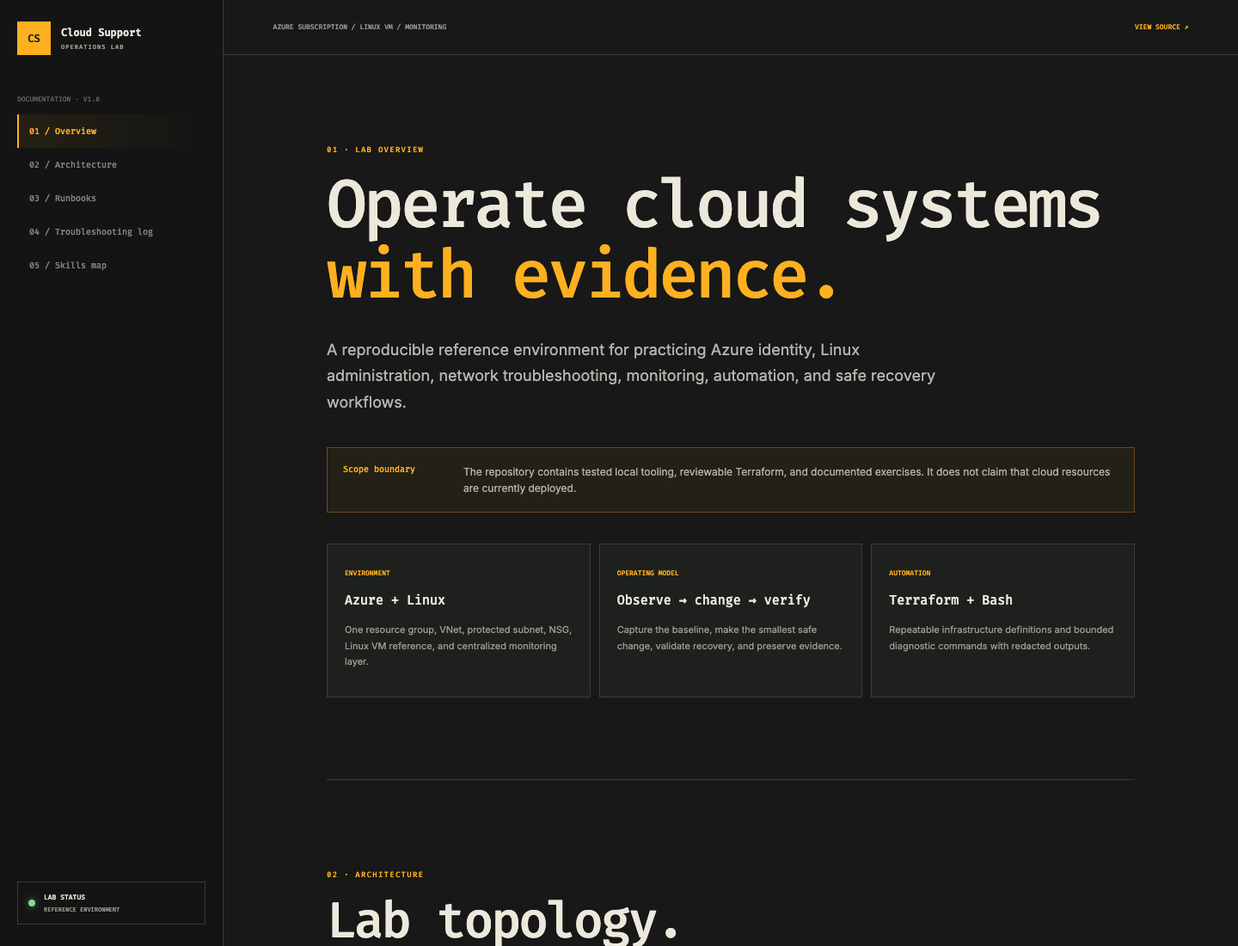
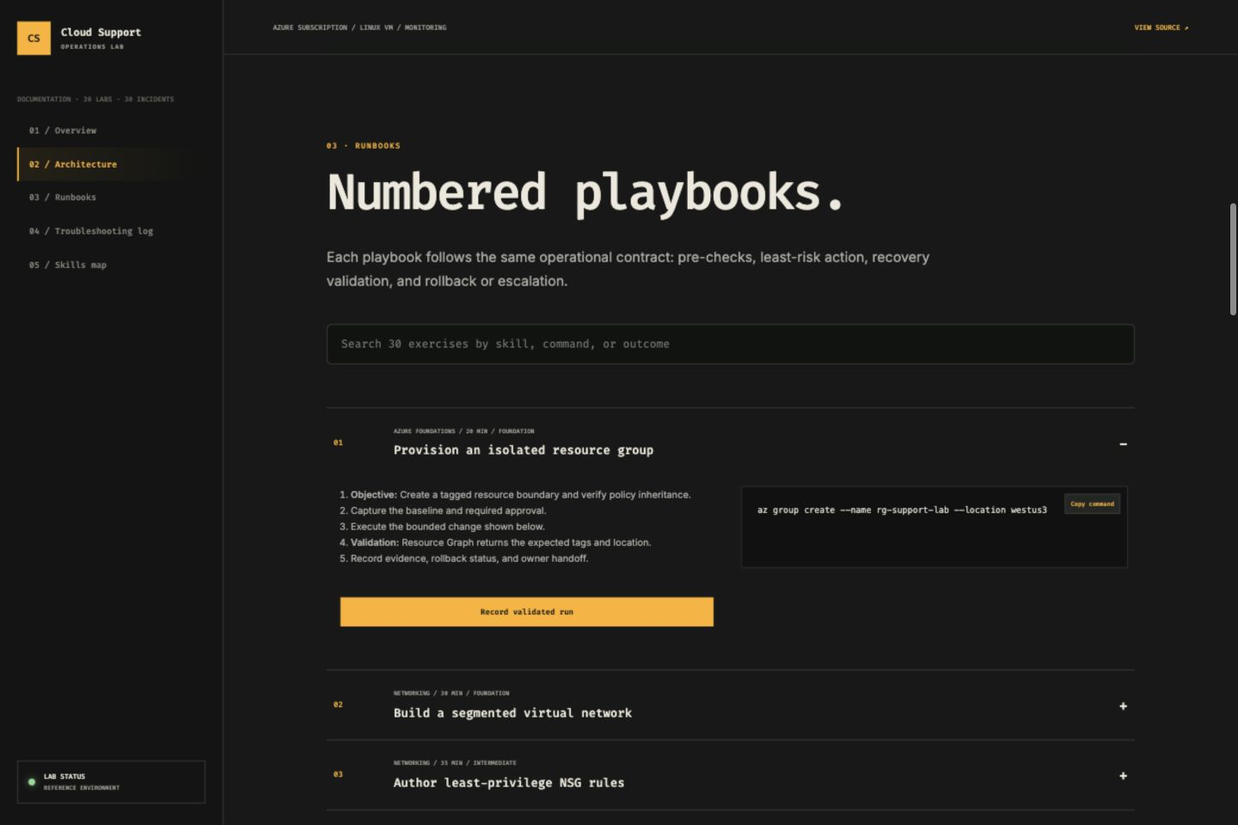
Build 30-lab operations evidence service

diff --git a/dashboard/index.html b/dashboard/index.html
@@ -1,6 +1,6 @@
 <!doctype html><html lang="en"><head><meta charset="utf-8"><meta name="viewport" content="width=device-width,initial-scale=1"><meta name="theme-color" content="#171817"><meta name="description" content="Azure and Linux cloud support operations lab documentation."><title>Cloud Support Operations Lab</title><link rel="stylesheet" href="styles.css"></head>
 <body><aside class="sidebar"><a class="brand" href="#overview"><span>CS</span><div>Cloud Support<small>OPERATIONS LAB</small></div></a><div class="version">DOCUMENTATION · V1.0</div><nav><a class="active" href="#overview">01 / Overview</a><a href="#architecture">02 / Architecture</a><a href="#runbooks">03 / Runbooks</a><a href="#troubleshooting">04 / Troubleshooting log</a><a href="#skills">05 / Skills map</a></nav><div class="lab-state"><i></i><div>LAB STATUS<small>REFERENCE ENVIRONMENT</small></div></div></aside>
-<main><header><button id="menu" aria-label="Toggle navigation">☰</button><p>AZURE SUBSCRIPTION / LINUX VM / MONITORING</p><a href="https://github.com/paulrevanthpersonal-lab/cloud-support-operations-lab">VIEW SOURCE ↗</a></header>
+<main><header><button id="menu" aria-label="Toggle navigation">☰</button><p>AZURE SUBSCRIPTION / LINUX VM / MONITORING</p><a href="https://github.com/paulrevanthpersonal-lab/cloud-ops-lab">VIEW SOURCE ↗</a></header>
 <article class="docs"><section id="overview"><p class="kicker">01 · LAB OVERVIEW</p><h1>Operate cloud systems<br><em>with evidence.</em></h1><p class="lead">A reproducible reference environment for practicing Azure identity, Linux administration, network troubleshooting, monitoring, automation, and safe recovery workflows.</p><div class="callout"><b>Scope boundary</b><p>The repository contains tested local tooling, reviewable Terraform, and documented exercises. It does not claim that cloud resources are currently deployed.</p></div><div class="overview-grid"><article><span>ENVIRONMENT</span><h3>Azure + Linux</h3><p>One resource group, VNet, protected subnet, NSG, Linux VM reference, and centralized monitoring layer.</p></article><article><span>OPERATING MODEL</span><h3>Observe → change → verify</h3><p>Capture the baseline, make the smallest safe change, validate recovery, and preserve evidence.</p></article><article><span>AUTOMATION</span><h3>Terraform + Bash</h3><p>Repeatable infrastructure definitions and bounded diagnostic commands with redacted outputs.</p></article></div></section>
 <section id="architecture"><p class="kicker">02 · ARCHITECTURE</p><h2>Lab topology.</h2><p>The resource boundary is explicit: internet traffic reaches only the NSG-approved path, administration uses controlled identity, and logs flow to a monitoring workspace.</p><div class="diagram"><div class="cloud"><span>AZURE RESOURCE GROUP</span><div class="diagram-row"><article class="identity"><small>IDENTITY PLANE</small><strong>Entra ID</strong><p>RBAC · MFA · service principal</p></article><b>→</b><article><small>NETWORK PLANE</small><strong>VNet / Subnet</strong><p>10.42.0.0/16 · NSG rules</p></article><b>→</b><article class="vm"><small>COMPUTE PLANE</small><strong>Linux VM</strong><p>SSH · patching · systemd</p></article></div><div class="telemetry"><span>↓ DIAGNOSTIC SETTINGS</span><article><small>OBSERVABILITY</small><strong>Log Analytics + Azure Monitor</strong><p>Metrics · queries · alerts · evidence</p></article></div></div></div><div class="legend"><span><i class="amber"></i>Control path</span><span><i></i>Telemetry path</span><span><i class="green"></i>Validated boundary</span></div></section>
 <section id="runbooks"><p class="kicker">03 · RUNBOOKS</p><h2>Numbered playbooks.</h2><p>Each playbook follows the same operational contract: pre-checks, least-risk action, recovery validation, and rollback or escalation.</p><div class="runbook-list"><details open><summary><span>RB-01</span><div><small>IDENTITY / 12 MIN</small><strong>Rotate a service principal credential</strong></div><b>+</b></summary><div class="runbook-body"><ol><li>Confirm the application owner, use, and approved change window.</li><li>Create the replacement credential without deleting the active one.</li><li>Update the consuming secret store and restart only the dependent workload.</li><li>Verify authentication telemetry before revoking the old credential.</li></ol><pre><code>az ad app credential reset \
@@ -15,4 +15,4 @@ SigninLogs
 apt list --upgradable
 sudo unattended-upgrade --dry-run --debug</code><button data-copy>Copy command</button></pre></div></details></div></section>
 <section id="troubleshooting"><p class="kicker">04 · TROUBLESHOOTING LOG</p><h2>Symptoms become evidence.</h2><div class="issue-table"><div class="thead"><span>ISSUE</span><span>ROOT CAUSE</span><span>FIX + VERIFICATION</span><span>STATUS</span></div><div><strong>SSH timeout after NSG update</strong><span>Rule priority shadowed the intended allow rule.</span><span>Corrected priority; verified fresh connection and Network Watcher flow.</span><b>RESOLVED</b></div><div><strong>Application could not resolve API</strong><span>Private DNS zone was not linked to the workload VNet.</span><span>Linked VNet; compared resolver answers and confirmed application health.</span><b>RESOLVED</b></div><div><strong>Service principal received 403</strong><span>Role assigned at the wrong resource scope.</span><span>Re-scoped least-privilege role; verified successful request and audit event.</span><b>RESOLVED</b></div><div><strong>Alert produced no notification</strong><span>Action group receiver was disabled.</span><span>Enabled receiver; ran approved test alert and confirmed delivery.</span><b>RESOLVED</b></div></div></section>
-<section id="skills"><p class="kicker">05 · SKILLS MAP</p><h2>Exercise to competency.</h2><div class="skills"><article><span>IAM</span><h3>Identity and access</h3><p>Service principals, credential rotation, MFA, Conditional Access, RBAC scope.</p><b>RB-01 · RB-03</b></article><article><span>NET</span><h3>Networking</h3><p>VNets, subnets, NSGs, DNS, TCP checks, routes, private service paths.</p><b>ARCH · DIAGNOSTICS</b></article><article><span>SYS</span><h3>Linux operations</h3><p>SSH hardening, systemd, patching, logs, recovery validation.</p><b>RB-02 · RB-04</b></article><article><span>OBS</span><h3>Monitoring</h3><p>Diagnostic settings, Log Analytics, Azure Monitor, alerts, evidence capture.</p><b>TROUBLESHOOTING LOG</b></article><article><span>AUT</span><h3>Automation</h3><p>Terraform definitions, Bash diagnostics, GitHub Actions checks, repeatability.</p><b>INFRA/ · SCRIPTS/</b></article></div></section></article><footer><span>Cloud Support Operations Lab</span><span>Designed for safe, repeatable troubleshooting.</span></footer></main><script src="app.js"></script></body></html>
+<section id="skills"><p class="kicker">05 · SKILLS MAP</p><h2>Exercise to competency.</h2><div class="skills"><article><span>IAM</span><h3>Identity and access</h3><p>Service principals, credential rotation, MFA, Conditional Access, RBAC scope.</p><b>RB-01 · RB-03</b></article><article><span>NET</span><h3>Networking</h3><p>VNets, subnets, NSGs, DNS, TCP checks, routes, private service paths.</p><b>ARCH · DIAGNOSTICS</b></article><article><span>SYS</span><h3>Linux operations</h3><p>SSH hardening, systemd, patching, logs, recovery validation.</p><b>RB-02 · RB-04</b></article><article><span>OBS</span><h3>Monitoring</h3><p>Diagnostic settings, Log Analytics, Azure Monitor, alerts, evidence capture.</p><b>TROUBLESHOOTING LOG</b></article><article><span>AUT</span><h3>Automation</h3><p>Terraform definitions, Bash diagnostics, GitHub Actions checks, repeatability.</p><b>INFRA/ · SCRIPTS/</b></article></div></section></article><footer><span>Cloud Support Operations Lab</span><span>Designed for safe, repeatable troubleshooting.</span></footer></main><script type="module" src="app.js"></script></body></html>

diff --git a/dashboard/styles.css b/dashboard/styles.css
@@ -3,3 +3,4 @@ body{overflow-x:hidden}p,h1,h2,h3{overflow-wrap:anywhere}
 :root{--bg:#171817;--panel:#1e201e;--panel2:#242624;--ink:#ece8dc;--muted:#999b91;--line:#3b3d39;--amber:#ffb020;--green:#86d993}*{box-sizing:border-box}html{scroll-behavior:smooth}body{margin:0;background:var(--bg);color:var(--ink);font-family:Inter,sans-serif}.sidebar{position:fixed;inset:0 auto 0 0;width:260px;background:#131413;border-right:1px solid var(--line);padding:25px 20px;display:flex;flex-direction:column;z-index:20}.brand{display:flex;align-items:center;gap:12px;color:inherit;text-decoration:none;font:600 12px "Fira Code"}.brand>span{display:grid;place-items:center;width:39px;height:39px;background:var(--amber);color:#1b1b19}.brand small{display:block;color:var(--muted);font-size:7px;letter-spacing:.15em;margin-top:4px}.version{margin-top:46px;color:#62655f;font:500 8px "Fira Code"}.sidebar nav{display:flex;flex-direction:column;margin-top:12px}.sidebar nav a{color:#80837c;text-decoration:none;font:500 10px "Fira Code";padding:13px 12px;border-left:2px solid transparent}.sidebar nav a.active{color:var(--amber);border-color:var(--amber);background:linear-gradient(90deg,rgba(255,176,32,.08),transparent)}.lab-state{margin-top:auto;display:flex;gap:10px;align-items:center;border:1px solid var(--line);padding:12px;font:500 8px "Fira Code"}.lab-state i{width:8px;height:8px;border-radius:50%;background:var(--green);box-shadow:0 0 9px rgba(134,217,147,.65)}.lab-state small{display:block;color:var(--muted);font-size:7px;margin-top:4px}main{margin-left:260px}main>header{height:64px;position:sticky;top:0;z-index:10;background:rgba(23,24,23,.9);backdrop-filter:blur(12px);border-bottom:1px solid var(--line);display:flex;align-items:center;justify-content:space-between;padding:0 4vw;font:500 8px "Fira Code";color:var(--muted)}main>header a{color:var(--amber);text-decoration:none}#menu{display:none}.docs{width:min(940px,88%);margin:auto}.docs section{padding:95px 0;border-bottom:1px solid var(--line);scroll-margin-top:60px}.kicker{font:500 9px "Fira Code";letter-spacing:.14em;color:var(--amber)}h1,h2{font:500 clamp(45px,6vw,78px)/1.05 "Fira Code";letter-spacing:-.05em;margin:18px 0 30px}h1 em{font-style:normal;color:var(--amber)}h2{font-size:clamp(37px,5vw,58px)}.lead{font-size:18px;line-height:1.7;color:#b4b5ad;max-width:740px}.callout{display:grid;grid-template-columns:140px 1fr;border:1px solid #684d1b;background:rgba(255,176,32,.05);padding:18px;margin:36px 0}.callout b{font:500 10px "Fira Code";color:var(--amber)}.callout p{margin:0;font-size:12px;line-height:1.6;color:#b1b2aa}.overview-grid{display:grid;grid-template-columns:repeat(3,1fr);gap:10px}.overview-grid article,.skills article{border:1px solid var(--line);background:var(--panel);padding:20px}.overview-grid span,.skills span{font:500 8px "Fira Code";color:var(--amber)}.overview-grid h3,.skills h3{font:500 15px "Fira Code"}.overview-grid p,.skills p{font-size:11px;line-height:1.7;color:var(--muted)}section>p:not(.kicker):not(.lead){color:#aaaDA5;line-height:1.75;max-width:720px}.diagram{border:1px solid var(--line);background:var(--panel);padding:24px;margin-top:30px}.cloud{border:1px dashed #62645d;padding:16px}.cloud>span{font:500 8px "Fira Code";color:var(--amber)}.diagram-row{display:grid;grid-template-columns:1fr auto 1fr auto 1fr;align-items:center;gap:12px;margin:25px 0}.diagram-row article,.telemetry article{border:1px solid var(--line);background:#151615;padding:18px}.diagram article small,.diagram article strong,.diagram article p{display:block}.diagram article small{font:500 7px "Fira Code";color:var(--muted)}.diagram article strong{font:500 13px "Fira Code";margin:12px 0}.diagram article p{font-size:9px;color:#888b84}.diagram-row>b{color:var(--amber)}.telemetry{text-align:center}.telemetry>span{font:500 8px "Fira Code";color:#667a6a}.telemetry article{width:50%;margin:12px auto 0}.legend{display:flex;gap:24px;margin-top:15px;font:500 8px "Fira Code";color:var(--muted)}.legend i{display:inline-block;width:8px;height:8px;border-radius:50%;background:#65756a;margin-right:6px}.legend .amber{background:var(--amber)}.legend .green{background:var(--green)}.runbook-list{margin-top:30px;border-top:1px solid var(--line)}details{border-bottom:1px solid var(--line)}summary{list-style:none;display:grid;grid-template-columns:70px 1fr auto;align-items:center;padding:22px 8px;cursor:pointer}summary::-webkit-details-marker{display:none}summary>span{font:500 9px "Fira Code";color:var(--amber)}summary small{display:block;font:500 7px "Fira Code";color:var(--muted);margin-bottom:7px}summary strong{font:500 14px "Fira Code"}.runbook-body{display:grid;grid-template-columns:1fr 1fr;gap:24px;padding:0 8px 28px}.runbook-body ol{padding-left:20px;font-size:11px;line-height:1.7;color:#afb1aa}.runbook-body pre{position:relative;background:#101110;border:1px solid #30322f;padding:18px;overflow:auto;color:#d9dbcF;font:400 10px/1.7 "Fira Code"}.runbook-body pre button{position:absolute;top:8px;right:8px;border:1px solid var(--line);background:var(--panel2);color:var(--amber);font:500 7px "Fira Code";padding:6px}.issue-table{border:1px solid var(--line);margin-top:30px}.issue-table>div{display:grid;grid-template-columns:1fr 1.2fr 1.5fr 80px;gap:18px;padding:16px;border-bottom:1px solid var(--line);font-size:10px;line-height:1.6}.issue-table>div:last-child{border:0}.issue-table .thead{font:500 7px "Fira Code";color:var(--muted);background:#111211}.issue-table b{color:var(--green);font:500 8px "Fira Code"}.issue-table span{color:#9da098}.skills{display:grid;grid-template-columns:repeat(5,1fr);gap:9px;margin-top:30px}.skills article{min-height:230px}.skills h3{margin-top:50px}.skills b{font:500 7px "Fira Code";color:var(--green)}footer{width:min(940px,88%);margin:auto;height:110px;display:flex;justify-content:space-between;align-items:center;color:#73766f;font:500 8px "Fira Code"}
 @media(max-width:900px){.overview-grid{grid-template-columns:1fr}.skills{grid-template-columns:1fr 1fr}.issue-table>div{grid-template-columns:1fr 80px}.issue-table span{display:none}}@media(max-width:650px){.sidebar{transform:translateX(-102%);transition:.25s}.sidebar.open{transform:none}main{margin:0}#menu{display:block;background:transparent;border:0;color:var(--amber);font-size:18px}main>header{padding:0 18px}main>header p{display:none}.docs{width:90%}.docs section{padding:70px 0}.callout{grid-template-columns:1fr}.callout p{margin-top:9px}.diagram-row{grid-template-columns:1fr}.diagram-row>b{transform:rotate(90deg);text-align:center}.telemetry article{width:100%}.runbook-body{grid-template-columns:1fr}.skills{grid-template-columns:1fr}.legend{flex-direction:column;gap:7px}}
 @media(prefers-reduced-motion:reduce){html{scroll-behavior:auto}.sidebar{transition:none}}
+.lab-search{width:100%;background:#111310;border:1px solid var(--line);color:var(--ink);padding:14px 16px;margin:20px 0;border-radius:6px;font:13px "Fira Code",monospace}.record-run{margin:0 8px 22px;background:var(--amber);color:#151712;border:0;padding:11px 14px;font:600 9px "Fira Code"}.issue-table{max-height:920px;overflow:auto}.issue-table>div>strong small{display:block;color:var(--amber);font:9px "Fira Code",monospace;margin-bottom:5px}

diff --git a/dashboard/app.js b/dashboard/app.js
@@ -1,5 +1,11 @@
-const links=[...document.querySelectorAll("nav a")];const sections=[...document.querySelectorAll("main section")];
-const observer=new IntersectionObserver(entries=>{entries.filter(entry=>entry.isIntersecting).forEach(entry=>{links.forEach(link=>link.classList.toggle("active",link.hash===`#${entry.target.id}`));});},{rootMargin:"-20% 0px -65%"});sections.forEach(section=>observer.observe(section));
-document.querySelectorAll("details").forEach(detail=>detail.addEventListener("toggle",()=>{detail.querySelector("summary>b").textContent=detail.open?"−":"+";}));
-document.querySelectorAll("[data-copy]").forEach(button=>button.addEventListener("click",async()=>{await navigator.clipboard?.writeText(button.previousElementSibling.textContent);button.textContent="Copied";setTimeout(()=>button.textContent=button.textContent.includes("query")?"Copy query":"Copy command",1000);}));
+const links=[...document.querySelectorAll("nav a")],sections=[...document.querySelectorAll("main section")];let catalog={exercises:[],incidents:[]},apiAvailable=true;
+const observer=new IntersectionObserver(entries=>{entries.filter(entry=>entry.isIntersecting).forEach(entry=>links.forEach(link=>link.classList.toggle("active",link.hash===`#${entry.target.id}`)));},{rootMargin:"-20% 0px -65%"});sections.forEach(section=>observer.observe(section));
+const esc=value=>String(value).replace(/[&<>'"]/g,c=>({"&":"&amp;","<":"&lt;",">":"&gt;","'":"&#39;",'"':"&quot;"}[c]));
+async function api(path,options={}){const response=await fetch(path,{headers:{"content-type":"application/json"},...options});if(!response.ok)throw new Error("Operations service unavailable");return response.json();}
+async function load(){try{const [exercises,incidents]=await Promise.all([api("/api/labs"),api("/api/incidents")]);catalog={exercises,incidents};}catch{apiAvailable=false;catalog=await fetch("../data/labs.json").then(response=>response.json());}}
+function renderLabs(query=""){const q=query.toLowerCase(),items=catalog.exercises.filter(item=>JSON.stringify(item).toLowerCase().includes(q));document.querySelector(".runbook-list").innerHTML=items.map((item,index)=>`<details ${index===0?"open":""}><summary><span>${item.id.replace("LAB-","")}</span><div><small>${esc(item.track.toUpperCase())} / ${item.duration} MIN / ${esc(item.difficulty.toUpperCase())}</small><strong>${esc(item.title)}</strong></div><b>+</b></summary><div class="runbook-body"><ol><li><b>Objective:</b> ${esc(item.objective)}</li><li>Capture the baseline and required approval.</li><li>Execute the bounded change shown below.</li><li><b>Validation:</b> ${esc(item.validation)}</li><li>Record evidence, rollback status, and owner handoff.</li></ol><pre><code>${esc(item.command)}</code><button data-copy>Copy command</button></pre><button class="record-run" data-run="${esc(item.id)}">Record validated run</button></div></details>`).join("");bindDetails();}
+function renderIncidents(){const table=document.querySelector(".issue-table");table.innerHTML=`<div class="thead"><span>ISSUE</span><span>ROOT CAUSE</span><span>FIX + VERIFICATION</span><span>STATUS</span></div>${catalog.incidents.map(item=>`<div><strong><small>${item.id}</small>${esc(item.symptom)}</strong><span>${esc(item.rootCause)}</span><span>${esc(item.fix)}</span><b>RESOLVED</b></div>`).join("")}`;}
+function bindDetails(){document.querySelectorAll("details").forEach(detail=>detail.addEventListener("toggle",()=>{detail.querySelector("summary>b").textContent=detail.open?"−":"+";}));document.querySelectorAll("[data-copy]").forEach(button=>button.addEventListener("click",async()=>{await navigator.clipboard?.writeText(button.previousElementSibling.textContent);button.textContent="Copied";setTimeout(()=>button.textContent="Copy command",1000);}));document.querySelectorAll("[data-run]").forEach(button=>button.addEventListener("click",async()=>{const payload={labId:button.dataset.run,operator:"Paul Revanth",status:"Validated",evidence:"Procedure completed; stated validation result recorded"};if(apiAvailable){try{const run=await api("/api/runs",{method:"POST",body:JSON.stringify(payload)});button.textContent=`Run #${run.id} recorded ✓`;}catch{button.textContent="Could not record";}}else{const runs=JSON.parse(localStorage.getItem("cloud-lab-runs")||"[]");runs.push({...payload,at:new Date().toISOString()});localStorage.setItem("cloud-lab-runs",JSON.stringify(runs));button.textContent="Local run recorded ✓";}}));}
 document.querySelector("#menu").addEventListener("click",()=>document.querySelector(".sidebar").classList.toggle("open"));links.forEach(link=>link.addEventListener("click",()=>document.querySelector(".sidebar").classList.remove("open")));
+const search=document.createElement("input");search.className="lab-search";search.type="search";search.placeholder="Search 30 exercises by skill, command, or outcome";document.querySelector("#runbooks>p:nth-of-type(2)").after(search);search.addEventListener("input",event=>renderLabs(event.target.value));
+await load();renderLabs();renderIncidents();document.querySelector(".version").textContent=`DOCUMENTATION · ${catalog.exercises.length} LABS · ${catalog.incidents.length} INCIDENTS`;

diff --git a/server.py b/server.py
@@ -1,0 +1,72 @@
+from __future__ import annotations
+
+import json
+import os
+import sqlite3
+from datetime import UTC, datetime
+from http.server import SimpleHTTPRequestHandler, ThreadingHTTPServer
+from pathlib import Path
+from urllib.parse import parse_qs, urlparse
+
+ROOT = Path(__file__).resolve().parent
+CATALOG = json.loads((ROOT / "data" / "labs.json").read_text())
+DB_PATH = Path(os.getenv("CLOUD_LAB_DB", ROOT / "data" / "lab_runs.db"))
+
+def initialize() -> None:
+    DB_PATH.parent.mkdir(parents=True, exist_ok=True)
+    with sqlite3.connect(DB_PATH) as conn:
+        conn.execute("""CREATE TABLE IF NOT EXISTS runs (
+            id INTEGER PRIMARY KEY AUTOINCREMENT, lab_id TEXT NOT NULL, operator TEXT NOT NULL,
+            status TEXT NOT NULL, evidence TEXT NOT NULL, started_at TEXT NOT NULL, completed_at TEXT
+        )""")
+
+def list_labs(query: str = "", track: str = "") -> list[dict]:
+    result = CATALOG["exercises"]
+    if query:
+        q = query.lower(); result = [item for item in result if q in json.dumps(item).lower()]
+    if track:
+        result = [item for item in result if item["track"] == track]
+    return result
+
+def create_run(payload: dict) -> dict:
+    lab = next((item for item in CATALOG["exercises"] if item["id"] == payload.get("labId")), None)
+    if not lab or len(payload.get("operator", "").strip()) < 2:
+        raise ValueError("Valid labId and operator are required")
+    status = payload.get("status", "In progress")
+    if status not in {"In progress", "Validated", "Blocked"}: raise ValueError("Invalid status")
+    now = datetime.now(UTC).replace(microsecond=0).isoformat()
+    evidence = payload.get("evidence", "Baseline captured; execution pending")[:1000]
+    with sqlite3.connect(DB_PATH) as conn:
+        cursor = conn.execute("INSERT INTO runs (lab_id,operator,status,evidence,started_at,completed_at) VALUES (?,?,?,?,?,?)", (lab["id"], payload["operator"].strip(), status, evidence, now, now if status == "Validated" else None))
+        row = conn.execute("SELECT * FROM runs WHERE id=?", (cursor.lastrowid,)).fetchone()
+    keys = ["id","lab_id","operator","status","evidence","started_at","completed_at"]
+    return dict(zip(keys,row))
+
+def list_runs() -> list[dict]:
+    with sqlite3.connect(DB_PATH) as conn:
+        conn.row_factory = sqlite3.Row
+        return [dict(row) for row in conn.execute("SELECT * FROM runs ORDER BY id DESC LIMIT 100")]
+
+class Handler(SimpleHTTPRequestHandler):
+    def __init__(self, *args, **kwargs): super().__init__(*args, directory=str(ROOT), **kwargs)
+    def send_json(self, status: int, payload: object) -> None:
+        raw = json.dumps(payload).encode(); self.send_response(status); self.send_header("Content-Type","application/json"); self.send_header("Content-Length",str(len(raw))); self.send_header("Cache-Control","no-store"); self.end_headers(); self.wfile.write(raw)
+    def do_GET(self):
+        parsed = urlparse(self.path); query = parse_qs(parsed.query)
+        if parsed.path == "/api/health": return self.send_json(200,{"status":"ok","exercises":len(CATALOG["exercises"]),"incidents":len(CATALOG["incidents"])})
+        if parsed.path == "/api/labs": return self.send_json(200,list_labs(query.get("query",[""])[0],query.get("track",[""])[0]))
+        if parsed.path == "/api/incidents": return self.send_json(200,CATALOG["incidents"])
+        if parsed.path == "/api/runs": return self.send_json(200,list_runs())
+        if parsed.path == "/api/summary":
+            runs = list_runs(); return self.send_json(200,{"exercises":30,"incidents":30,"runs":len(runs),"validated":sum(run["status"]=="Validated" for run in runs),"tracks":sorted({item["track"] for item in CATALOG["exercises"]})})
+        return super().do_GET()
+    def do_POST(self):
+        if urlparse(self.path).path != "/api/runs": return self.send_json(404,{"error":"Route not found"})
+        try:
+            length = min(int(self.headers.get("Content-Length",0)),1_000_000); payload = json.loads(self.rfile.read(length) or b"{}"); self.send_json(201,create_run(payload))
+        except (ValueError,json.JSONDecodeError) as error: self.send_json(422,{"error":str(error)})
+
+def run(port: int = 8080) -> None:
+    initialize(); print(f"Cloud Support Operations Lab http://localhost:{port}"); ThreadingHTTPServer(("0.0.0.0",port),Handler).serve_forever()
+
+if __name__ == "__main__": run(int(os.getenv("PORT","8080")))

diff --git a/tests/test_server.py b/tests/test_server.py
@@ -1,0 +1,27 @@
+import json
+import os
+import tempfile
+import unittest
+from pathlib import Path
+
+with tempfile.TemporaryDirectory() as initial_dir:
+    os.environ["CLOUD_LAB_DB"] = str(Path(initial_dir) / "runs.db")
+    import server
+
+class CloudLabTests(unittest.TestCase):
+    @classmethod
+    def setUpClass(cls):
+        cls.temp = tempfile.TemporaryDirectory(); server.DB_PATH = Path(cls.temp.name) / "runs.db"; server.initialize()
+    @classmethod
+    def tearDownClass(cls): cls.temp.cleanup()
+    def test_catalog_depth_and_unique_ids(self):
+        self.assertEqual(len(server.CATALOG["exercises"]),30); self.assertEqual(len(server.CATALOG["incidents"]),30)
+        self.assertEqual(len({item["id"] for item in server.CATALOG["exercises"]}),30); self.assertGreaterEqual(len({item["track"] for item in server.CATALOG["exercises"]}),7)
+    def test_filter_and_persist_run(self):
+        self.assertTrue(all(item["track"]=="Identity" for item in server.list_labs(track="Identity")))
+        run=server.create_run({"labId":"LAB-10","operator":"Paul Revanth","status":"Validated","evidence":"New credential authenticated; previous credential revoked"})
+        self.assertEqual(run["status"],"Validated"); self.assertEqual(server.list_runs()[0]["lab_id"],"LAB-10")
+    def test_invalid_lab_is_rejected(self):
+        with self.assertRaises(ValueError): server.create_run({"labId":"LAB-99","operator":"P"})
+
+if __name__ == "__main__": unittest.main()

diff --git a/README.md b/README.md
@@ -2,13 +2,13 @@
 
 > An Azure and Linux support lab for repeatable diagnostics, evidence capture, escalation, recovery validation, and operational documentation.
 
-**[Open the live operations dashboard](https://paulrevanthpersonal-lab.github.io/cloud-support-operations-lab/)**
+**[Open the live operations dashboard](https://paulrevanthpersonal-lab.github.io/cloud-ops-lab/)**
 
 ![Operations dashboard](docs/screenshots/operations-dashboard.png)
 
 ## 1. Overview
 
-This repository demonstrates how a cloud-support engineer approaches real operational symptoms safely and consistently. It combines a unique runbook dashboard, redacting diagnostic CLI, Azure Terraform, Docker delivery, incident templates, and automated evidence.
+This repository implements a repeatable cloud-support practice environment. It combines 30 guided exercises, 30 incident records, a searchable operations dashboard, persisted validation runs, a redacting diagnostic CLI, Azure Terraform, Docker delivery, incident templates, and automated checks.
 
 ## 2. Operational goals
 
@@ -19,7 +19,7 @@ This repository demonstrates how a cloud-support engineer approaches real operat
 
 ## 3. Lab scenarios
 
-The runbooks cover VM access, DNS drift, permission denial, deployment rollback, missing logs/alerts, and cost anomalies. Each scenario starts with impact and evidence rather than a tool-first checklist.
+The catalog contains 30 guided exercises spanning identity, Linux, DNS, TCP/IP, Azure networking, IAM/RBAC, storage, Docker, Terraform, monitoring, incident management, backup, and recovery. A separate 30-record incident library captures symptoms, root cause, safe fix, and recovery verification.
 
 ## 4. Experience design
 
@@ -29,13 +29,15 @@ The dashboard uses a tactile editorial-and-terminal visual system that is delibe
 
 ## 5. Architecture
 
-See [docs/ARCHITECTURE.md](docs/ARCHITECTURE.md) for the relationship among runbooks, diagnostics, evidence, Terraform, logging, and alerts.
+See [docs/ARCHITECTURE.md](docs/ARCHITECTURE.md) for the relationship among the browser workspace, Python API, SQLite run history, diagnostics, Terraform, logging, and alerts.
 
 ## 6. Repository components
 
 | Component | Purpose |
 |---|---|
 | `dashboard/` | Searchable operator experience |
+| `data/labs.json` | 30 exercises and 30 resolved incident patterns |
+| `server.py` | Standard-library API, validation-run persistence, and static delivery |
 | `runbooks/` | Symptom-driven support procedures |
 | `scripts/diagnose.sh` | DNS, TCP, HTTP, and route evidence |
 | `infra/` | Azure Log Analytics and action-group lab |
@@ -43,9 +45,11 @@ See [docs/ARCHITECTURE.md](docs/ARCHITECTURE.md) for the relationship among runb
 
 ## 7. Quick start
 
-Open `dashboard/index.html` directly, or serve it with Docker:
+Run with Python or Docker:
 
 ```bash
+python3 server.py
+# or
 docker compose up
 ```
 
@@ -74,7 +78,7 @@ The configuration creates an isolated resource group, Log Analytics workspace, a
 
 ## 10. Runbook standard
 
-Every runbook includes scope, evidence, safe workflow, escalation triggers, and recovery verification. Start with the [VM access workflow](runbooks/access.md) or [DNS workflow](runbooks/dns.md).
+Every guided exercise includes objective, environment, commands, verification, rollback, and evidence requirements. The deeper operational runbooks include scope, safe workflow, escalation triggers, and recovery verification.
 
 ## 11. Evidence handling
 
@@ -90,7 +94,7 @@ Headless Chrome writes desktop and mobile evidence under `docs/screenshots/`.
 
 ## 13. Validation and CI
 
-GitHub Actions checks Terraform formatting, Bash syntax, required runbook coverage, and security documentation on each push and pull request.
+GitHub Actions checks all 60 data records, Python unit tests, JavaScript syntax, Terraform formatting, Bash syntax, required runbook coverage, and security documentation on each push and pull request.
 
 ## 14. Security model
 
@@ -110,7 +114,7 @@ The lab never stores credentials and never automates destructive recovery. Read 
 - Add Azure Policy and budget modules
 - Add packet-loss and TLS certificate modes
 - Export evidence bundles as signed archives
-- Add a mock incident tabletop exercise
+- Export a selected lab run as a signed evidence bundle
 
 ## 17. Status and limitations
 

diff --git a/docs/INTERVIEW_GUIDE.md b/docs/INTERVIEW_GUIDE.md
@@ -2,7 +2,7 @@
 
 ## One-minute explanation
 
-This repository is a reproducible cloud-support practice environment. It pairs safe diagnostic commands with evidence capture, operational runbooks, an Azure infrastructure baseline, and a dashboard that makes common incident paths easy to navigate.
+This repository is a reproducible cloud-support practice environment. It pairs 30 guided exercises and 30 resolved incident patterns with API-backed run evidence, safe diagnostics, operational runbooks, an Azure infrastructure baseline, and a searchable dashboard.
 
 ## Decisions I can explain
 
@@ -11,6 +11,7 @@ This repository is a reproducible cloud-support practice environment. It pairs s
 - Runbooks use the same pattern: confirm impact, collect evidence, make the least risky change, verify recovery, document closure.
 - Terraform demonstrates repeatable infrastructure and cost-aware defaults.
 - The dashboard is static so it remains usable during control-plane or API outages.
+- The optional local service persists validated runs in SQLite without making the review build dependent on cloud credentials.
 
 ## Trade-offs
 
@@ -18,8 +19,8 @@ The Azure plan is a safe reference baseline and is not automatically deployed by
 
 ## Interview demonstration
 
-1. Open the operations dashboard and choose an incident path.
+1. Open the operations dashboard, search the 30-lab catalog, and choose an incident path.
 2. Run a DNS or HTTP diagnostic against an approved test endpoint.
 3. Show the timestamped, redacted evidence and checksum.
 4. Walk through the matching runbook and recovery verification.
-5. Explain how the CI checks shell syntax and Terraform formatting.
+5. Record the verification result and explain how CI checks data depth, API behavior, shell syntax, and Terraform formatting.

diff --git a/docs/ARCHITECTURE.md b/docs/ARCHITECTURE.md
@@ -2,7 +2,10 @@
 
 ```mermaid
 flowchart TB
-  UI[Runbook dashboard] --> DOCS[Symptom-based runbooks]
+  UI[Operations dashboard] --> API[Python standard-library API]
+  API --> CATALOG[30 labs and 30 incident patterns]
+  API --> RUNS[(SQLite validation runs)]
+  UI --> DOCS[Symptom-based runbooks]
   OPS[Operator] --> CLI[Redacting diagnostic CLI]
   CLI --> EVIDENCE[Hashed evidence bundle]
   TF[Terraform] --> AZURE[Azure lab resources]
@@ -10,5 +13,4 @@ flowchart TB
   LOGS --> ALERTS[Action group]
 ```
 
-The lab separates presentation, safe diagnostic collection, runbook decisions, and infrastructure. Real credentials and production endpoints are intentionally excluded.
-
+The lab separates presentation, immutable practice content, persisted validation evidence, safe diagnostic collection, runbook decisions, and infrastructure. The dashboard can read the versioned catalog directly on GitHub Pages; running `server.py` adds API filtering and SQLite-backed run records. Real credentials and production endpoints are intentionally excluded.

diff --git a/docs/API.md b/docs/API.md
@@ -1,0 +1,10 @@
+# API contract
+
+- `GET /api/health` reports service readiness.
+- `GET /api/labs` returns 30 guided exercises and supports text, category, and difficulty filters.
+- `GET /api/incidents` returns 30 incident patterns with root cause, safe remediation, and verification.
+- `POST /api/runs` validates and stores an exercise result in SQLite.
+- `GET /api/runs` returns recent validation runs.
+- `GET /api/summary` returns catalog and completion counts.
+
+The API accepts practice evidence only. Credentials, production logs, customer data, and destructive automation are intentionally out of scope.
